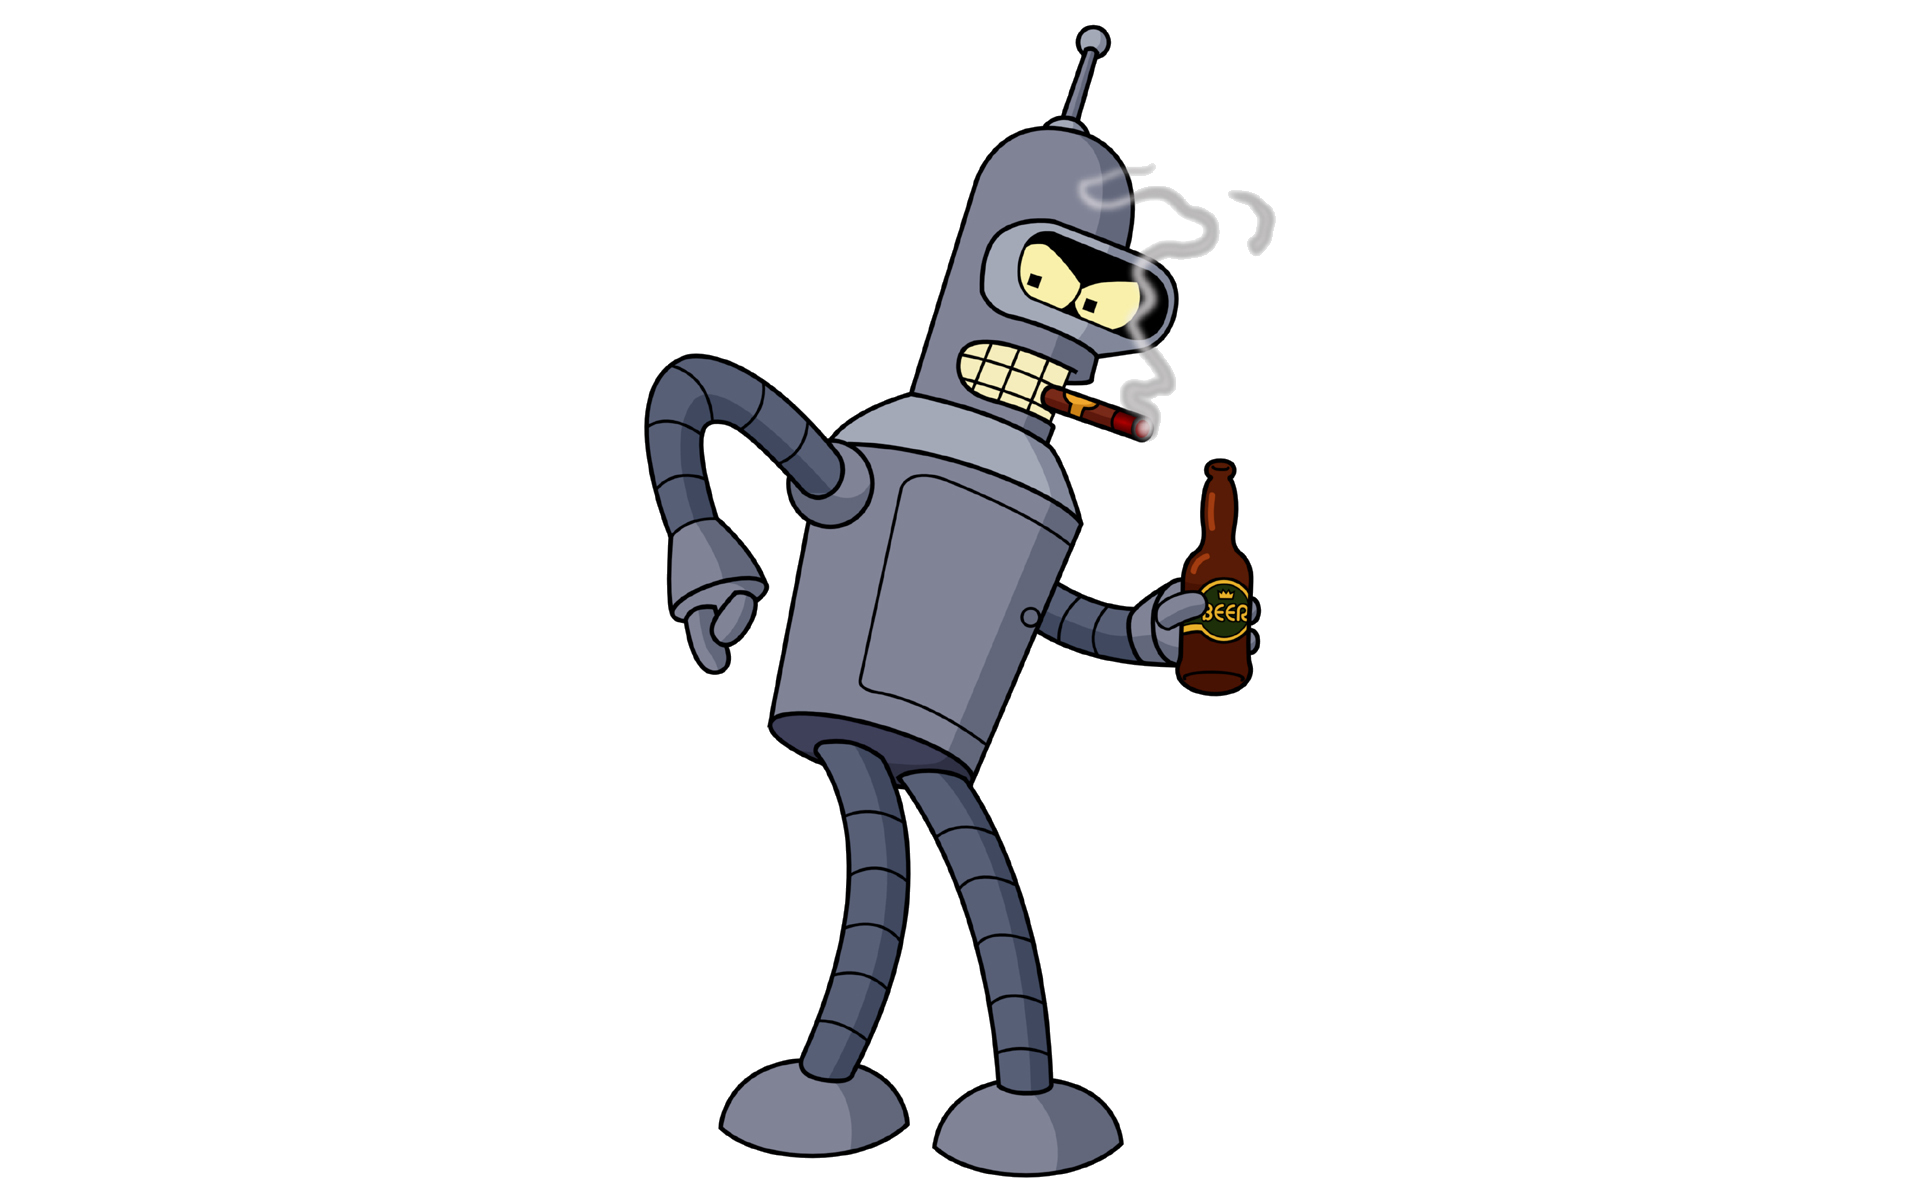
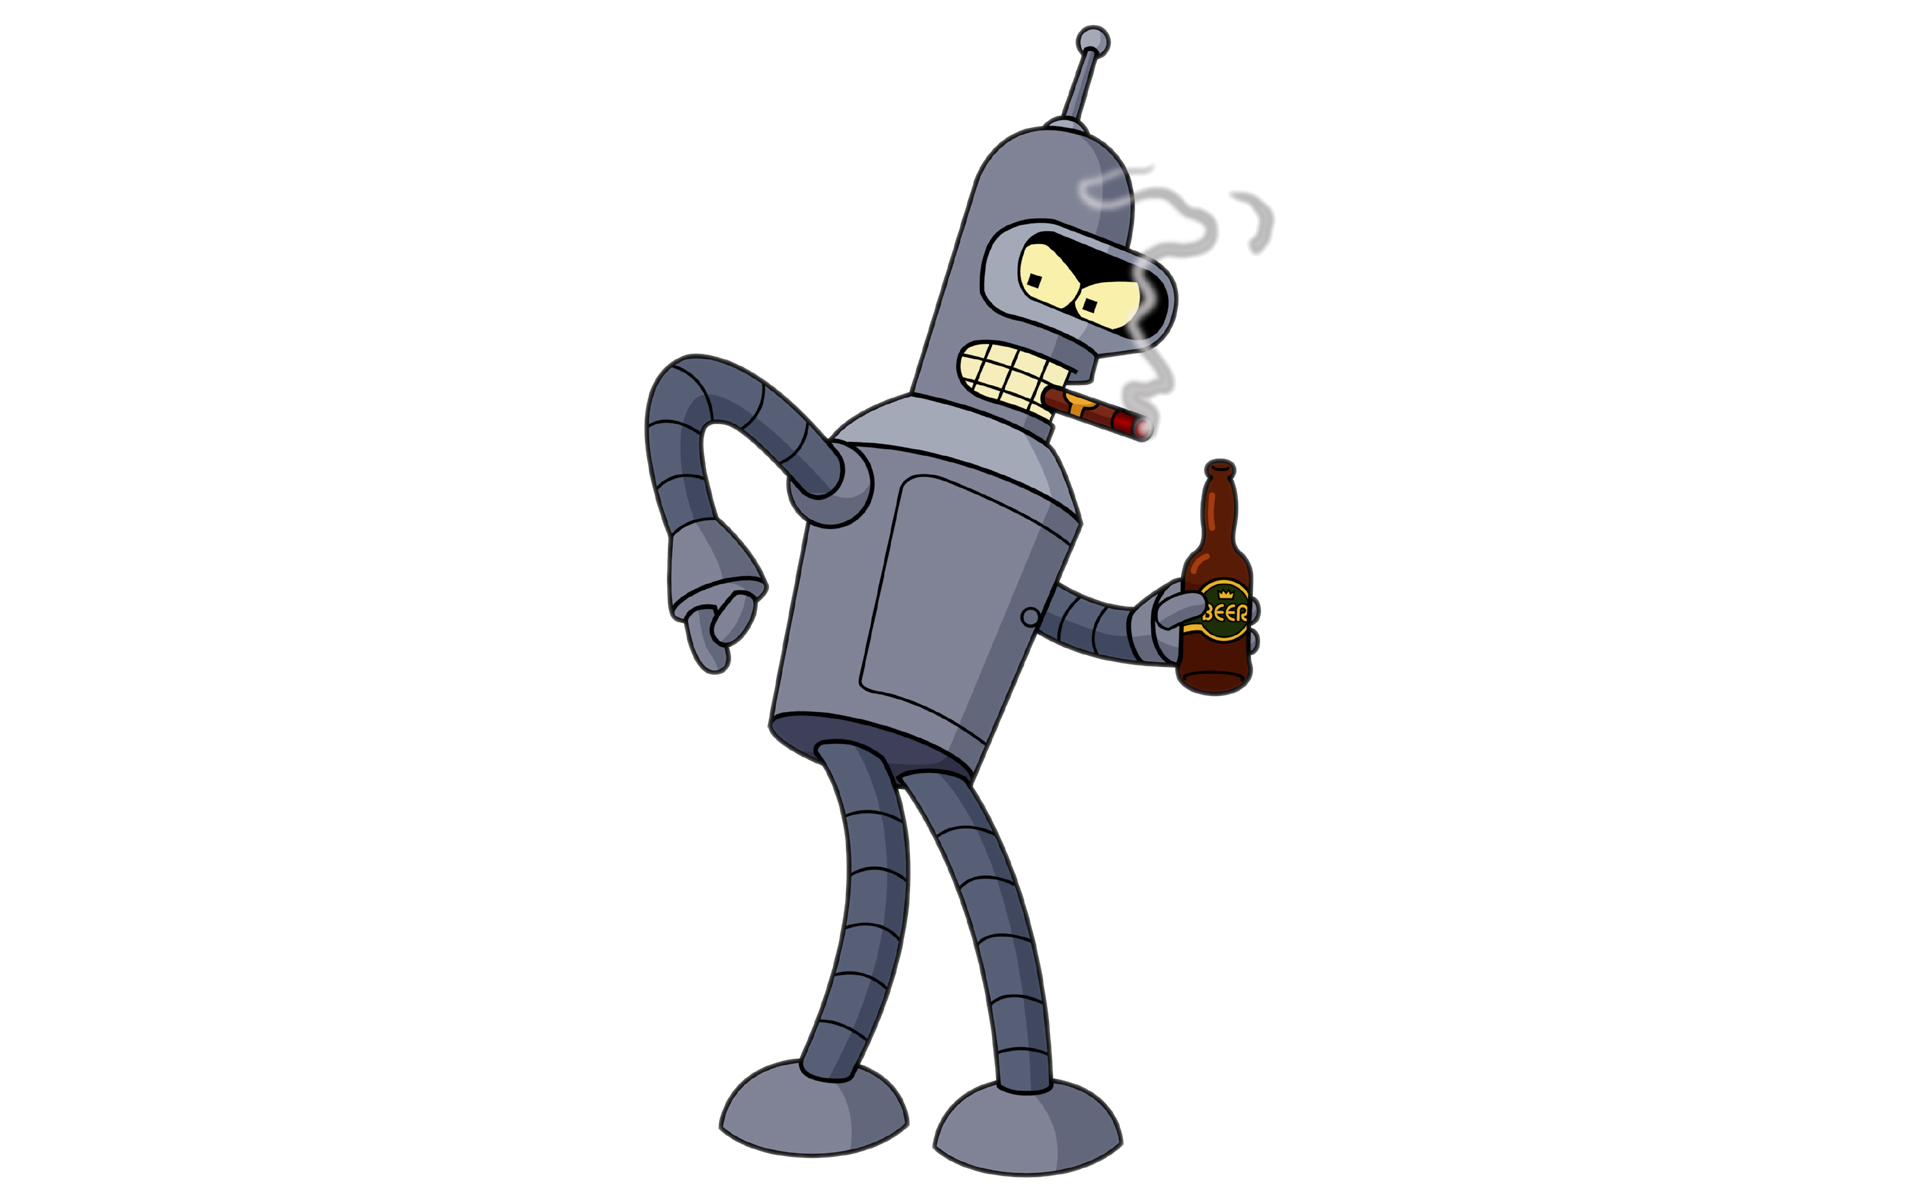
Add files via upload

diff --git a/stylebrew1.css b/stylebrew1.css
@@ -55,31 +55,19 @@ body {
 	float: right;
 }
 
-/* Text Banner
---------------------------------------------------------------------------------*/
-
-#text-banner {
-  background-color:#24823C; /* Changes the headline's background color */
+.header img {
+  float: right;
+  width: 30%;
+  height: 30%;
+/*  background: #555;*/
 }
 
-#text-banner .container {
-  max-width: 1000px;
-  margin: 0 auto;
-  padding: 1em; /* Changes the padding (i.e., space) surrounding the text banner's text */
-  box-sizing:border-box;
+.header h1 {
+  position: relative;
+  top: 18px;
+  left: 10px;
 }
 
-#text-banner .container h2 {
-  color: #ffffff; /* Changes text banner's font color */
-  font-family: "Komika Axis"; /* Changes the text banner's font */
-  font-size: 1.5em; /* Changes the text banner's font size */
-  font-weight: 500; /* Changes the text banner's font thickness */
-  letter-spacing: 0.05em; /* Changes the space between each letter */
-  margin: 0 auto 0em;
-  text-align: center; /* Moves the text banner text to the left, center, or right -- your preference! */
-  text-shadow:0 0 10px #004F09; /* Changes the text banner's text shadow */
-}
-	
 	
 /*font-family: 'Raleway', sans-serif;
 /*font-family: 'Quicksand', sans-serif;

diff --git a/index.html b/index.html
@@ -25,13 +25,11 @@
 		<li><a href="results.html">Results</a></li>
 		<li><a href="results.html">Results</a></li>
 		</ul>
-	<div class="banner">
-		<img class="banner-image" src="img/bender3.png"  width=30% height=30% alt="Make Image responsive" />
 
-	<div id="text-banner">
-		<div class="container"><h2>BrewHappy</h2></div>
-	</div>
-	
+		<div class="header">
+			<img src="img/bender.png" alt="bender" />
+			<h1>BrewHappy</h1>
+		</div>
 	</body>
 	
 	
